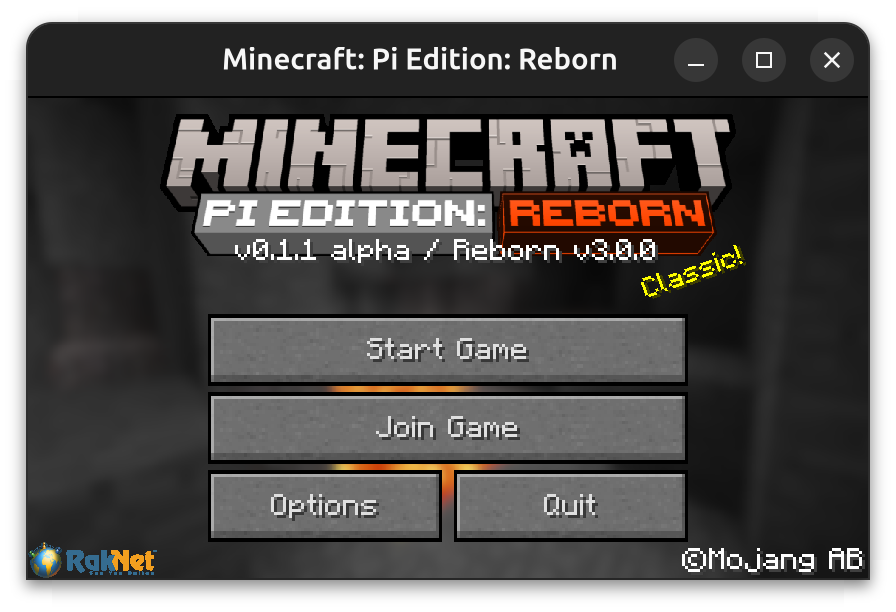
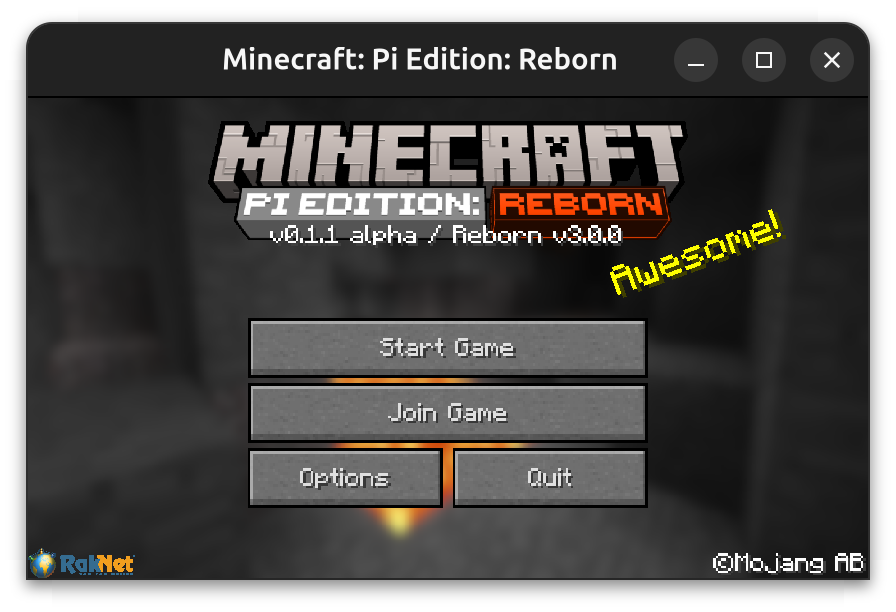
Better UI Scaling

Changed region(s): [[0.1562, 0.1863, 0.9688, 0.9624], [0.0312, 0.8693, 0.1875, 0.9624]]

diff --git a/mods/src/misc/ui.cpp b/mods/src/misc/ui.cpp
@@ -1,7 +1,10 @@
 #include <libreborn/patch.h>
 #include <libreborn/env.h>
+#include <libreborn/util.h>
 
 #include <symbols/minecraft.h>
+
+#include <media-layer/core.h>
 
 #include <GLES/gl.h>
 #include <SDL/SDL.h>
@@ -245,6 +248,29 @@ static void LocalPlayer_openTextEdit_injection(__attribute__((unused)) LocalPlay
     }
 }
 
+// Better GUI Scaling
+static void set_gui_scale(const float new_scale) {
+    union {
+        float a;
+        void *b;
+    } pun = {};
+    pun.a = new_scale;
+    patch_address((void *) 0x17520, pun.b);
+}
+static float calculate_scale(const float value, const float default_value) {
+    constexpr float initial_scale = 2.5f;
+    const float scale = initial_scale * (value / default_value);
+    return step_value(scale);
+}
+static void Minecraft_setSize_injection(Minecraft_setSize_t original, Minecraft *self, const int width, const int height) {
+    // Calculate Scale
+    const float a = calculate_scale(float(width), DEFAULT_WIDTH);
+    const float b = calculate_scale(float(height), DEFAULT_HEIGHT);
+    set_gui_scale(std::min(a, b));
+    // Call Original Method
+    original(self, width, height);
+}
+
 // Init
 void _init_misc_ui() {
     // Food Overlay
@@ -303,18 +329,24 @@ void _init_misc_ui() {
     }
 
     // Custom GUI Scale
+    bool patch_gui_scaling = false;
     const char *gui_scale_str = getenv(MCPI_GUI_SCALE_ENV);
     if (gui_scale_str != nullptr) {
         float gui_scale;
         env_value_to_obj(gui_scale, gui_scale_str);
         if (gui_scale > 0) {
-            unsigned char nop_patch[4] = {0x00, 0xf0, 0x20, 0xe3}; // "nop"
-            patch((void *) 0x173e8, nop_patch);
-            patch((void *) 0x173f0, nop_patch);
-            uint32_t gui_scale_raw;
-            memcpy(&gui_scale_raw, &gui_scale, sizeof (gui_scale_raw));
-            patch_address((void *) 0x17520, (void *) gui_scale_raw);
+            patch_gui_scaling = true;
+            set_gui_scale(gui_scale);
         }
+    }
+    if (feature_has("Improved UI Scaling", server_disabled) && !patch_gui_scaling) {
+        overwrite_calls(Minecraft_setSize, Minecraft_setSize_injection);
+        patch_gui_scaling = true;
+    }
+    if (patch_gui_scaling) {
+        unsigned char nop_patch[4] = {0x00, 0xf0, 0x20, 0xe3}; // "nop"
+        patch((void *) 0x173e8, nop_patch);
+        patch((void *) 0x173f0, nop_patch);
     }
 
     // Don't Wrap Text On '\r' Or '\t' Because They Are Actual Characters In MCPI

diff --git a/launcher/src/client/ui.cpp b/launcher/src/client/ui.cpp
@@ -1,5 +1,6 @@
 #include <vector>
 #include <limits>
+#include <cmath>
 
 #include <libreborn/util.h>
 
@@ -138,14 +139,16 @@ void ConfigurationUI::draw_main() const {
         state.render_distance = render_distances[render_distance_index];
     }
     // UI Scale
-    std::string scale_format = "%i";
-    scale_format += 'x';
+    const int precision = std::floor(state.gui_scale) == state.gui_scale ? 0 : 1;
+    std::string scale_format = "%." + std::to_string(precision) + "fx";
     if (state.gui_scale <= AUTO_GUI_SCALE) {
         scale_format = "Auto";
     }
-    int gui_scale_int = int(state.gui_scale);
-    if (ImGui::SliderInt(labels[2], &gui_scale_int, 0, 8, scale_format.c_str())) {
-        state.gui_scale = float(gui_scale_int);
+    char display_gui_scale[64];
+    sprintf(display_gui_scale, scale_format.c_str(), state.gui_scale);
+    float new_gui_scale = state.gui_scale;
+    if (ImGui::SliderFloat(labels[2], &new_gui_scale, 0, 8, display_gui_scale, ImGuiSliderFlags_NoRoundToFormat)) {
+        state.gui_scale = step_value(new_gui_scale);
         if (state.gui_scale < AUTO_GUI_SCALE) {
             state.gui_scale = AUTO_GUI_SCALE;
         }

diff --git a/libreborn/src/util/util.cpp b/libreborn/src/util/util.cpp
@@ -3,6 +3,7 @@
 #include <sys/stat.h>
 #include <cstring>
 #include <ctime>
+#include <cmath>
 
 #include <libreborn/util.h>
 #include <libreborn/config.h>
@@ -134,4 +135,9 @@ std::string format_time(const char *fmt) {
 std::string format_time(const char *fmt, const int time) {
     // This Will Break In 2038
     return _format_time(fmt, time);
+}
+
+// Step
+float step_value(const float value, const float step) {
+    return std::round(value / step) * step;
 }

diff --git a/libreborn/include/libreborn/util.h b/libreborn/include/libreborn/util.h
@@ -65,3 +65,6 @@ std::string format_time(const char *fmt, int time);
 // Default MCPI Port
 // This Macro DOES NOT Control MCPI
 #define DEFAULT_MULTIPLAYER_PORT 19132
+
+// Step Value
+float step_value(float value, float step = 0.5f);

diff --git a/docs/CHANGELOG.md b/docs/CHANGELOG.md
@@ -53,6 +53,7 @@
     * `Proper Entity Shading` (Enabled By Default)
     * `Fix Sugar Position In Hand` (Enabled By Default)
     * `Fix Reloading Textures On Resize` (Enabled By Default)
+    * `Improved UI Scaling` (Enabled By Default)
   * Existing Functionality (All Enabled By Default)
     * `Fix Screen Rendering When Hiding HUD`
     * `Sanitize Usernames`
